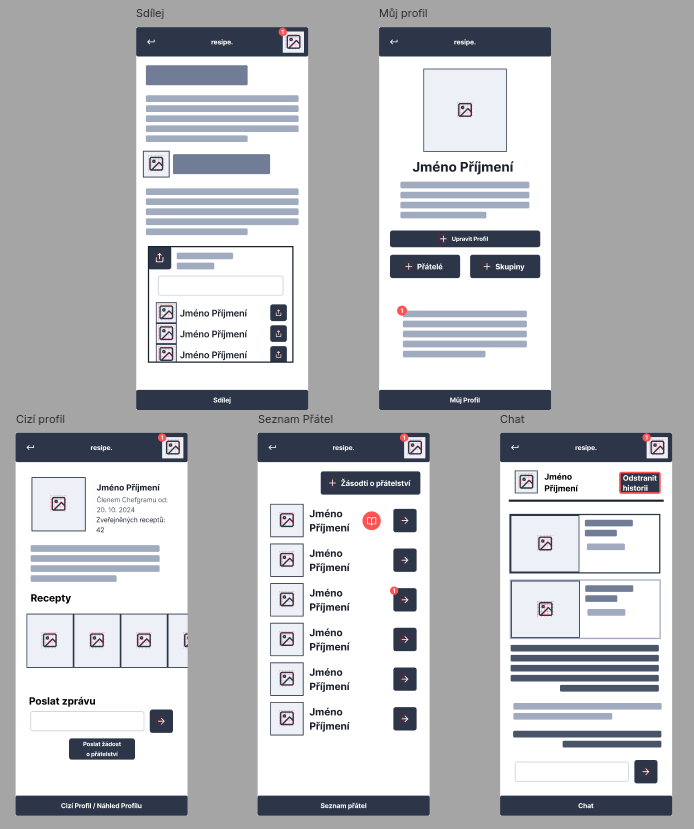
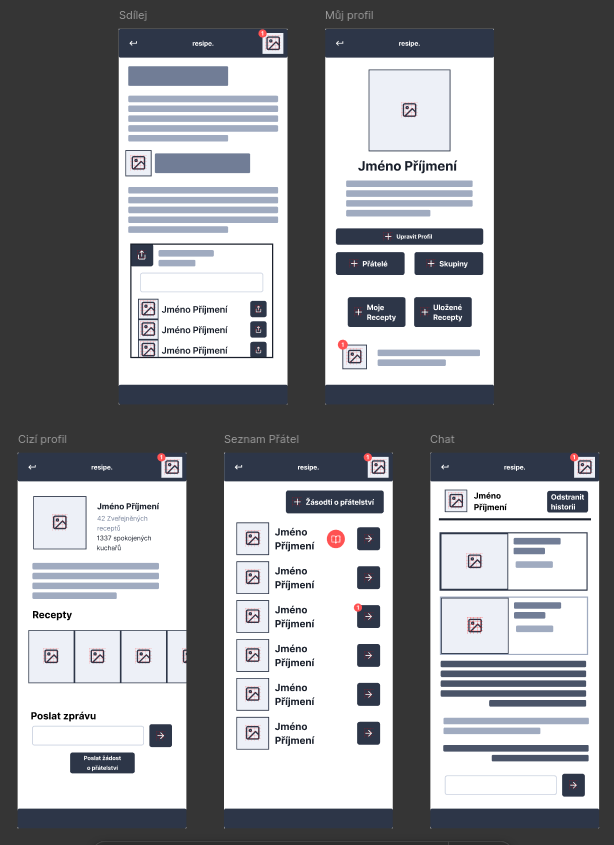
docs: Adjusted my Figma design part to better reflect our use case

diff --git a/docs/00_navrh.tex b/docs/00_navrh.tex
@@ -579,13 +579,15 @@
     \begin{itemize}
         \item \uv{Tagování} uživatelů bude aplikace řešit
         sdílením přímo ze stránky receptu. Bude možné sdílet s jedním či více uživateli najednou.
-        Tento způsob implikuje použití osobních a skupinových chatů. Nejenže v konverzaci může uživatel
-        sdílet i více než jen recept, ale je tak možné i uchovávat historii konverzací.
-        K receptu se uživatel může snadno vrátit, protože si je spojí s člověkem, který mu ho poslal.
+        Tento způsob implikuje použití osobních a skupinových chatů. Tak bude uživatel moci
+        sdílet i více než recept samotný. Umožní mu to o receptu také dále diskutovat.
+        Stejným způsobem půjde uchovávat i historii sdílení a konverzací.
+        K receptu se uživatel může snadno vrátit podle člověka kterému/který mu jej poslal.
         \item Naši uživatelé často vyhledávají recepty nejen podle chuti, ale i podle dobré zkušenosti
-        s nějakým tvůrcem receptu. Aplikace tedy bude obsahovat i uživatelské stránky s výčtem jejich
-        receptů a možností je kontaktovat, např. se zeptat na jejich tip k nějakému receptu. Zde taky
-        bude již zažitá možnost poslat \uv{žádost o přátelství}. Po jejím potvrzení se pak otevře chat.
+        s nějakým tvůrcem. Aplikace tedy bude obsahovat i uživatelské stránky s výčtem jejich
+        receptů a možností je zde kontaktovat. Zde taky
+        bude již zažitá možnost poslat \uv{žádost o přátelství}. Po jejím potvrzení, např.
+        odpovězením na zprávu z druhé strany, se pak otevře chat.
     \end{itemize}
 
     Celý návrh obsahoval několik obrazovek, a tak byl značně rozsáhlý.
